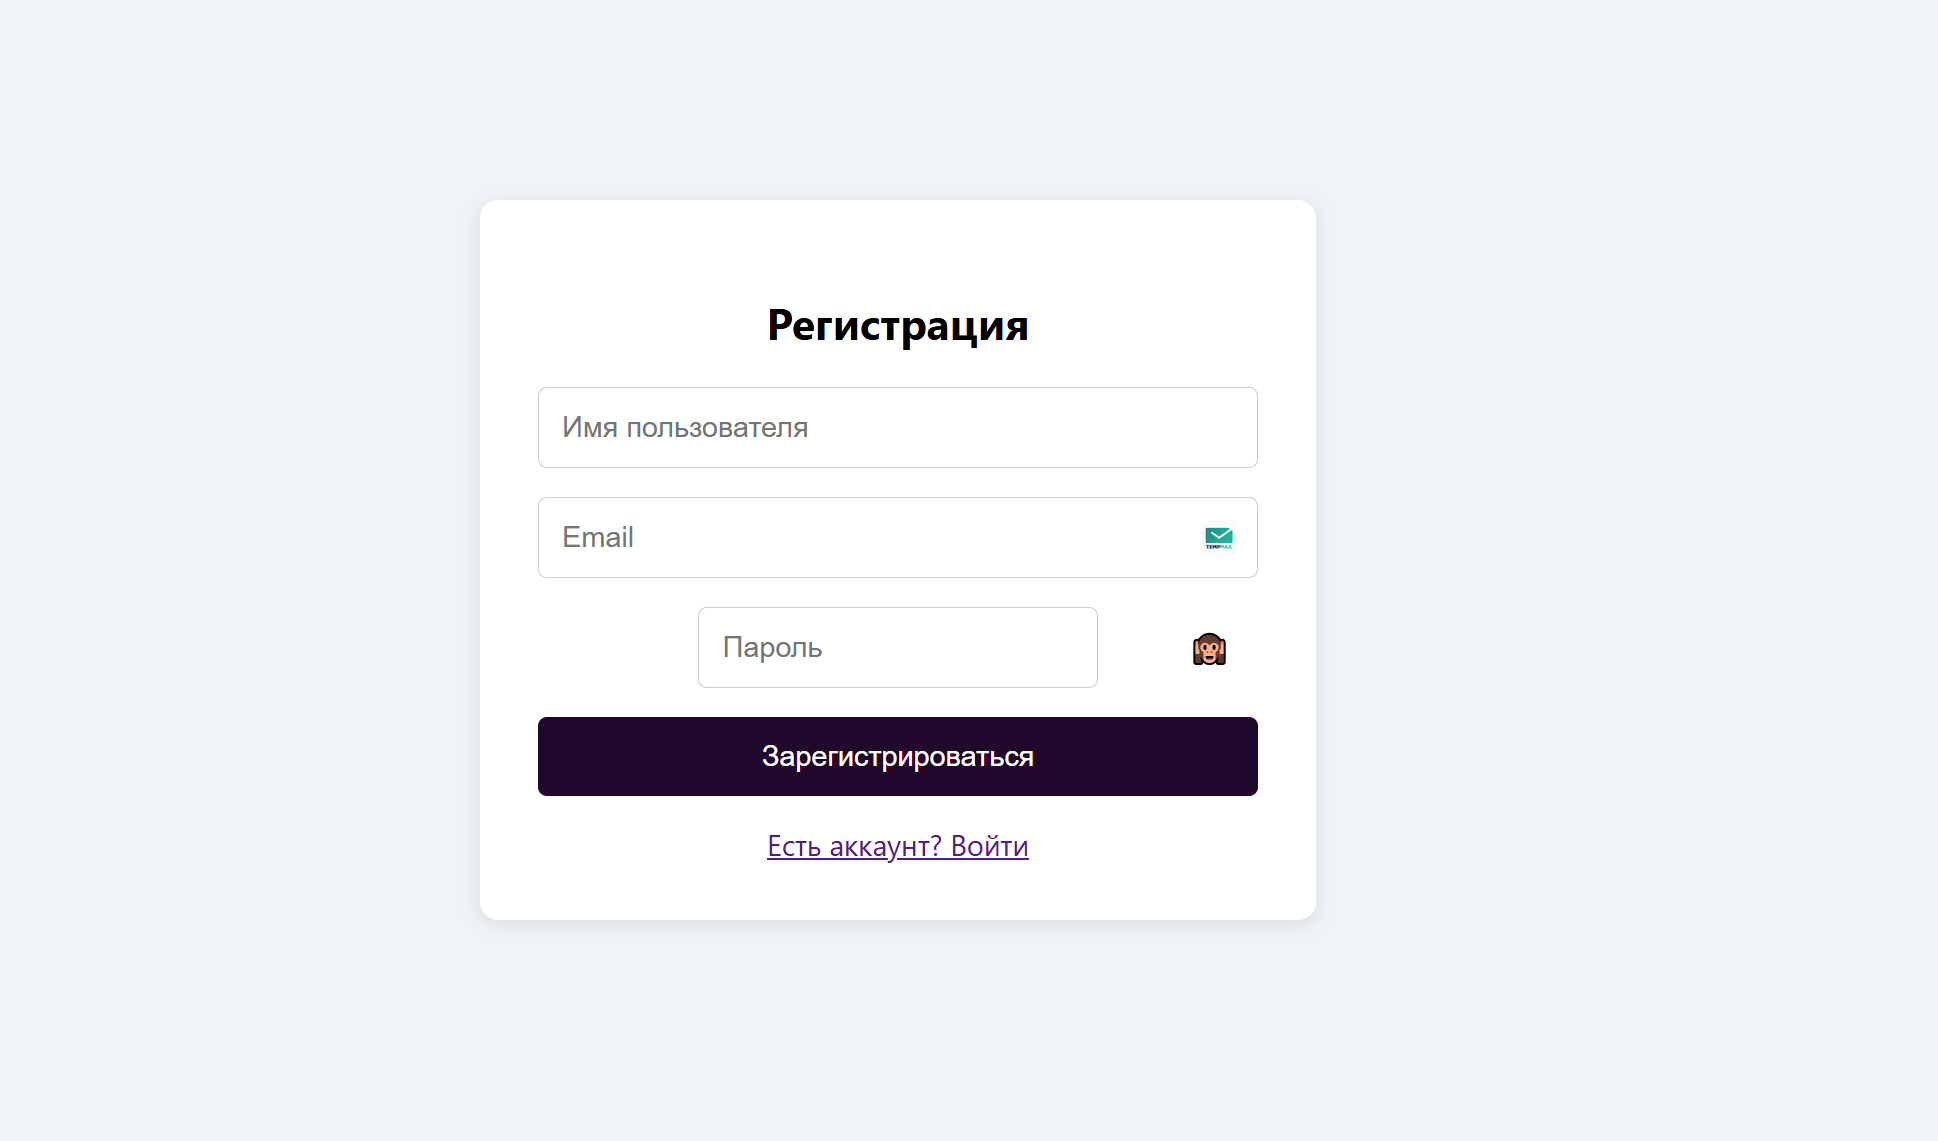
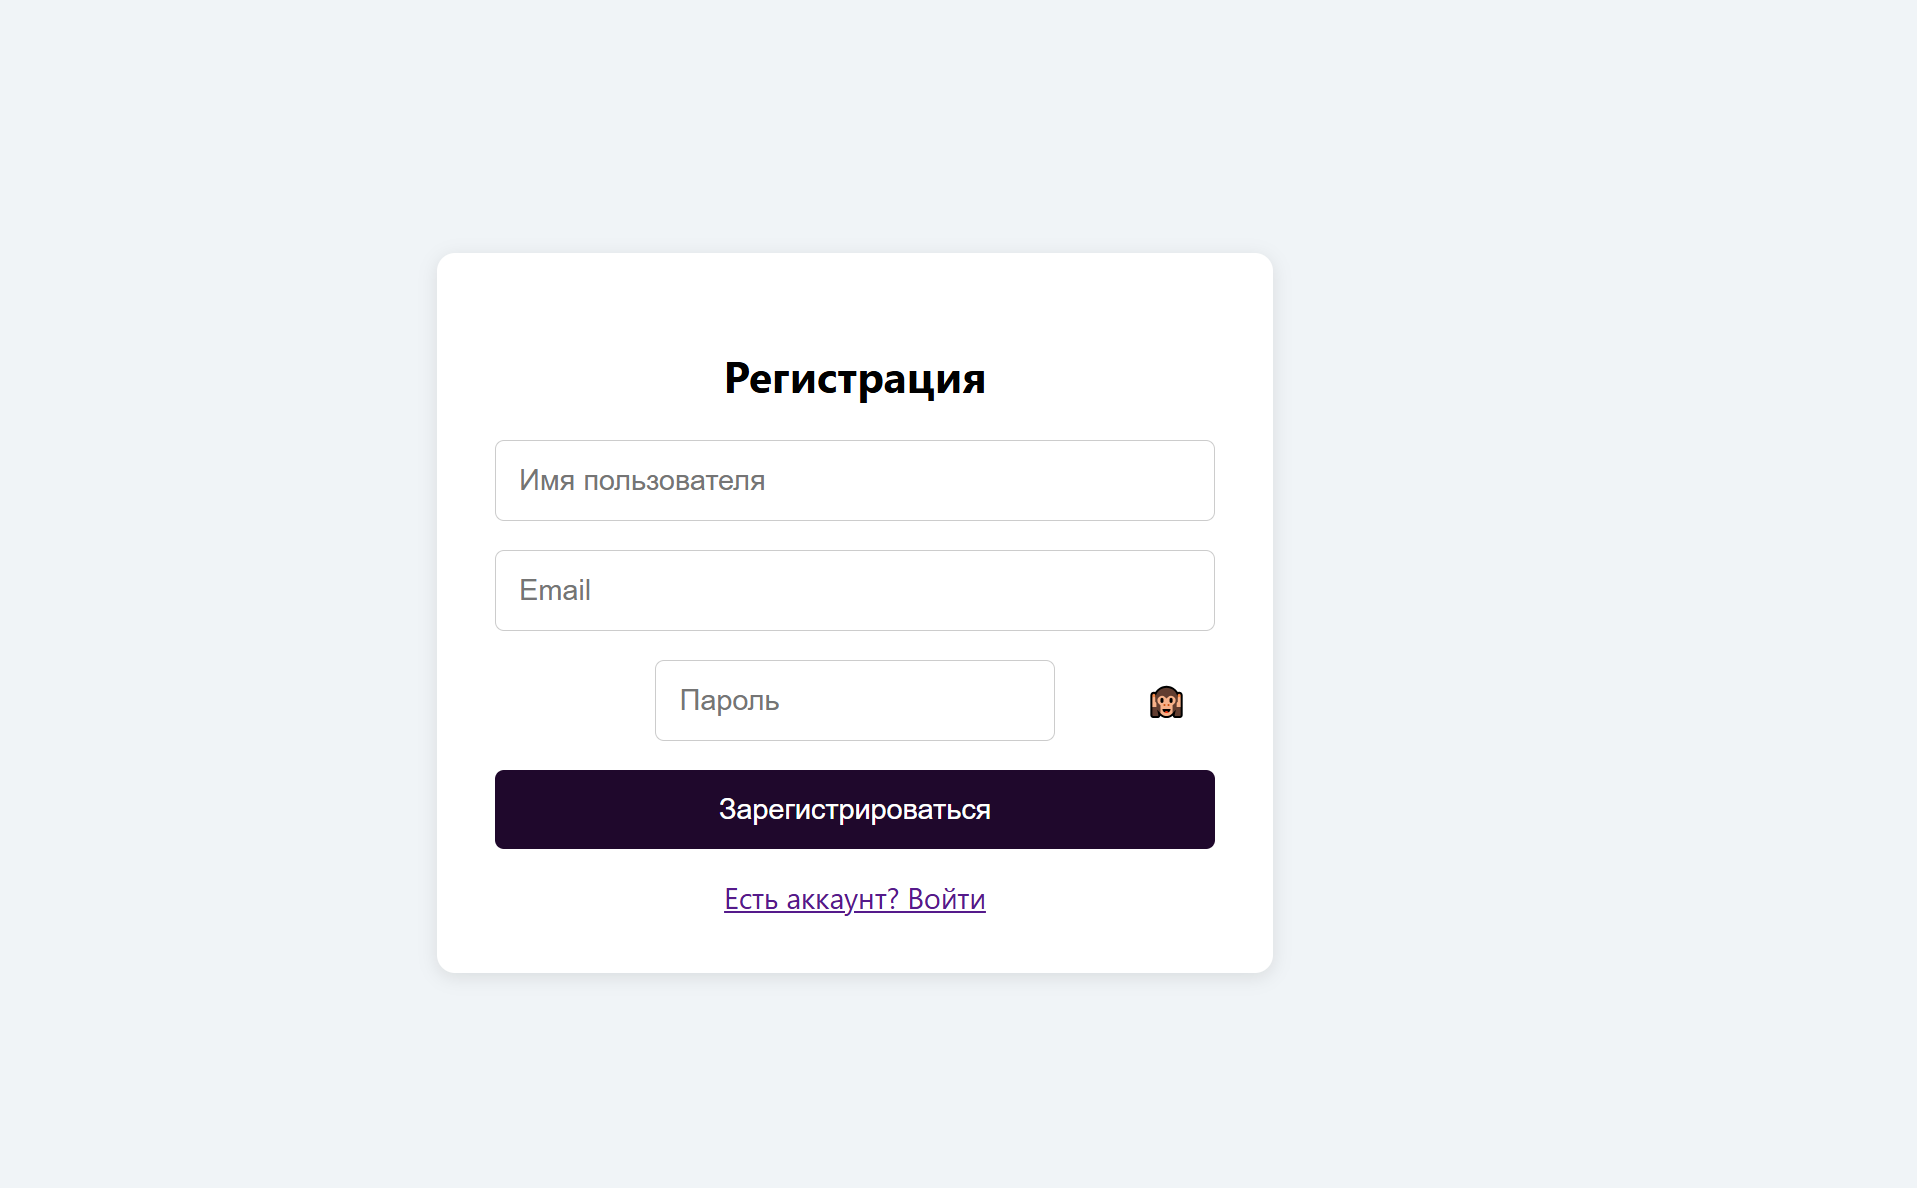
minor changes, readme changes

diff --git a/public/css/content.css b/public/css/content.css
@@ -22,7 +22,6 @@ a {
 
 form {
     background: #fff;
-    padding: 15px;
     border-radius: 8px;
     margin-bottom: 20px;
     box-shadow: 0 0 5px rgba(0,0,0,0.1);
@@ -82,3 +81,4 @@ hr {
     border-top: 1px solid #ccc;
     margin: 20px 0;
 }
+

diff --git a/public/css/users.css b/public/css/users.css
@@ -18,7 +18,6 @@ a {
 
 form {
     background: #fff;
-    padding: 15px;
     border-radius: 8px;
     margin-bottom: 20px;
     box-shadow: 0 0 5px rgba(0,0,0,0.1);

diff --git a/README.md b/README.md
@@ -11,7 +11,7 @@
 
 
 ## Описание работы
-Данная работа представляет собой веб-приложение, разработанное с использованием языка PHP в качестве бэкенда, HTML,CSS, JS в качестве фронтенда и СУБД PostgreSQL. Основная задача — управление пользователями и новостным контентом с разграничением прав доступа. Приложение реализует регистрацию и вход пользователей с безопасным хешированием паролей, проверкой данных и защитой от SQL-инъекций. Интерфейс приложения делится на общедоступную и защищённую части. Авторизованные пользователи могут просматривать записи, а администраторы получают доступ к расширенному функционалу: управлению пользователями и созданию, редактированию и удалению контента. Формы обладают как клиентской, так и серверной валидацией и обеспечивают защиту от некорректных данных. Работа построена по модульному принципу и легко масштабируется.
+Данная работа представляет собой веб-приложение, разработанное с использованием языка PHP в качестве бэкенда и HTML, CSS, JS в качестве фронтенда. В качестве базы данных используется СУБД PostgreSQL. Основная задача — управление пользователями и новостным контентом с разграничением прав доступа. Приложение реализует регистрацию и вход пользователей с безопасным хешированием паролей, проверкой данных и защитой от SQL-инъекций. Интерфейс приложения делится на общедоступную и защищённую части. Авторизованные пользователи могут просматривать записи, а администраторы получают доступ к расширенному функционалу: управлению пользователями и созданию, редактированию и удалению контента. Формы обладают как клиентской, так и серверной валидацией и обеспечивают защиту от некорректных данных. Работа построена по модульному принципу и легко масштабируется.
 
 ## Запуск и установка
 1. Для работы проекта необходимо установить `PostgreSQL`, создать базу данных, например, `adwli` и повторить архитектуру базы данных:
@@ -68,6 +68,80 @@ php -S localhost:8000 -t public
 - Проверка уникальности указываемых логинов и почт, в том числе при создании администратором
 - Все манипуляции отображаются в базе данных
 
+Подобные стили применяются на всех страницах доступных юзерам, для соблюдения одного визуального представления приложения:
+```css
+body {
+    margin: 0;
+    padding: 0;
+    font-family: "Segoe UI", sans-serif;
+    background: #f0f4f7;
+    display: flex;
+    justify-content: center;
+    align-items: center;
+    height: 100vh;
+}
+
+.register-container {
+    background: white;
+    padding: 2rem;
+    border-radius: 10px;
+    box-shadow: 0 2px 10px rgba(0, 0, 0, 0.1);
+    width: 100%;
+    max-width: 400px;
+    text-align: center;
+}
+
+.register-form {
+    display: flex;
+    flex-direction: column;
+    gap: 1rem;
+}
+
+input {
+    padding: 0.8rem;
+    font-size: 1rem;
+    border: 1px solid #ccc;
+    border-radius: 5px;
+}
+
+button[type="submit"] {
+    background: #1f082c;
+    color: white;
+    border: none;
+    padding: 0.8rem;
+    font-size: 1rem;
+    border-radius: 5px;
+    cursor: pointer;
+}
+
+button[type="submit"]:hover {
+    background: #591f6b;
+}
+
+.error-box {
+    background: #e74c3c;
+    color: white;
+    padding: 0.5rem;
+    margin-bottom: 1rem;
+    border-radius: 5px;
+}
+
+.password-wrapper {
+    position: relative;
+}
+
+#toggleRegPassword {
+    position: absolute;
+    right: 10px;
+    top: 50%;
+    transform: translateY(-50%);
+    background: none;
+    border: none;
+    cursor: pointer;
+    font-size: 1rem;
+}
+```
+
 ### 2. Сценарии взаимодействия пользователей с приложением
 
 #### Незарегистрированный пользователь
@@ -111,4 +185,29 @@ php -S localhost:8000 -t public
 ## Примеры использования проекта
 ### Пример регистрации пользователя
 Первое взаимодействие пользователя с проектом происходит на `/register.php`:
+
 ![image](screenshots/Screenshot_1.png)
+
+Уже зарегистрированные пользователи могут войти в свой аккаунт на `/login.php`:
+
+![image](screenshots/Screenshot_2.png)
+
+После успешного входа пользователь попадает в личный кабинет, откуда может выйти или перейти к новостным записям:
+
+![image](screenshots/Screenshot_3.png)
+
+Далее открывается меню записей, в котором пользователи могут их просматривать и осуществлять поиск по заголовкам, категориям и авторам. Пользователи видят только публичные записи и не могут их изменять:
+
+![image](screenshots/Screenshot_4.png)
+
+В случае если пользователь - администратор (можно выдать напрямую через бд или с другого админ аккаунта), в личном кабинете открывается дополнительный функционал, а именно управление контентом и пользователями:
+
+![image](screenshots/Screenshot_5.png)
+
+Меню управления пользователями позволяет изменять уже существующих юзеров, выдавать/забирать админ права, удалять их:
+
+![image](screenshots/Screenshot_6.png)
+
+Также из этого меню открывается возможность перейти в `/admin/create_user.php`, чтобы создать пользователя (валидация работает и здесь):
+
+![image](screenshots/Screenshot_7.png)
